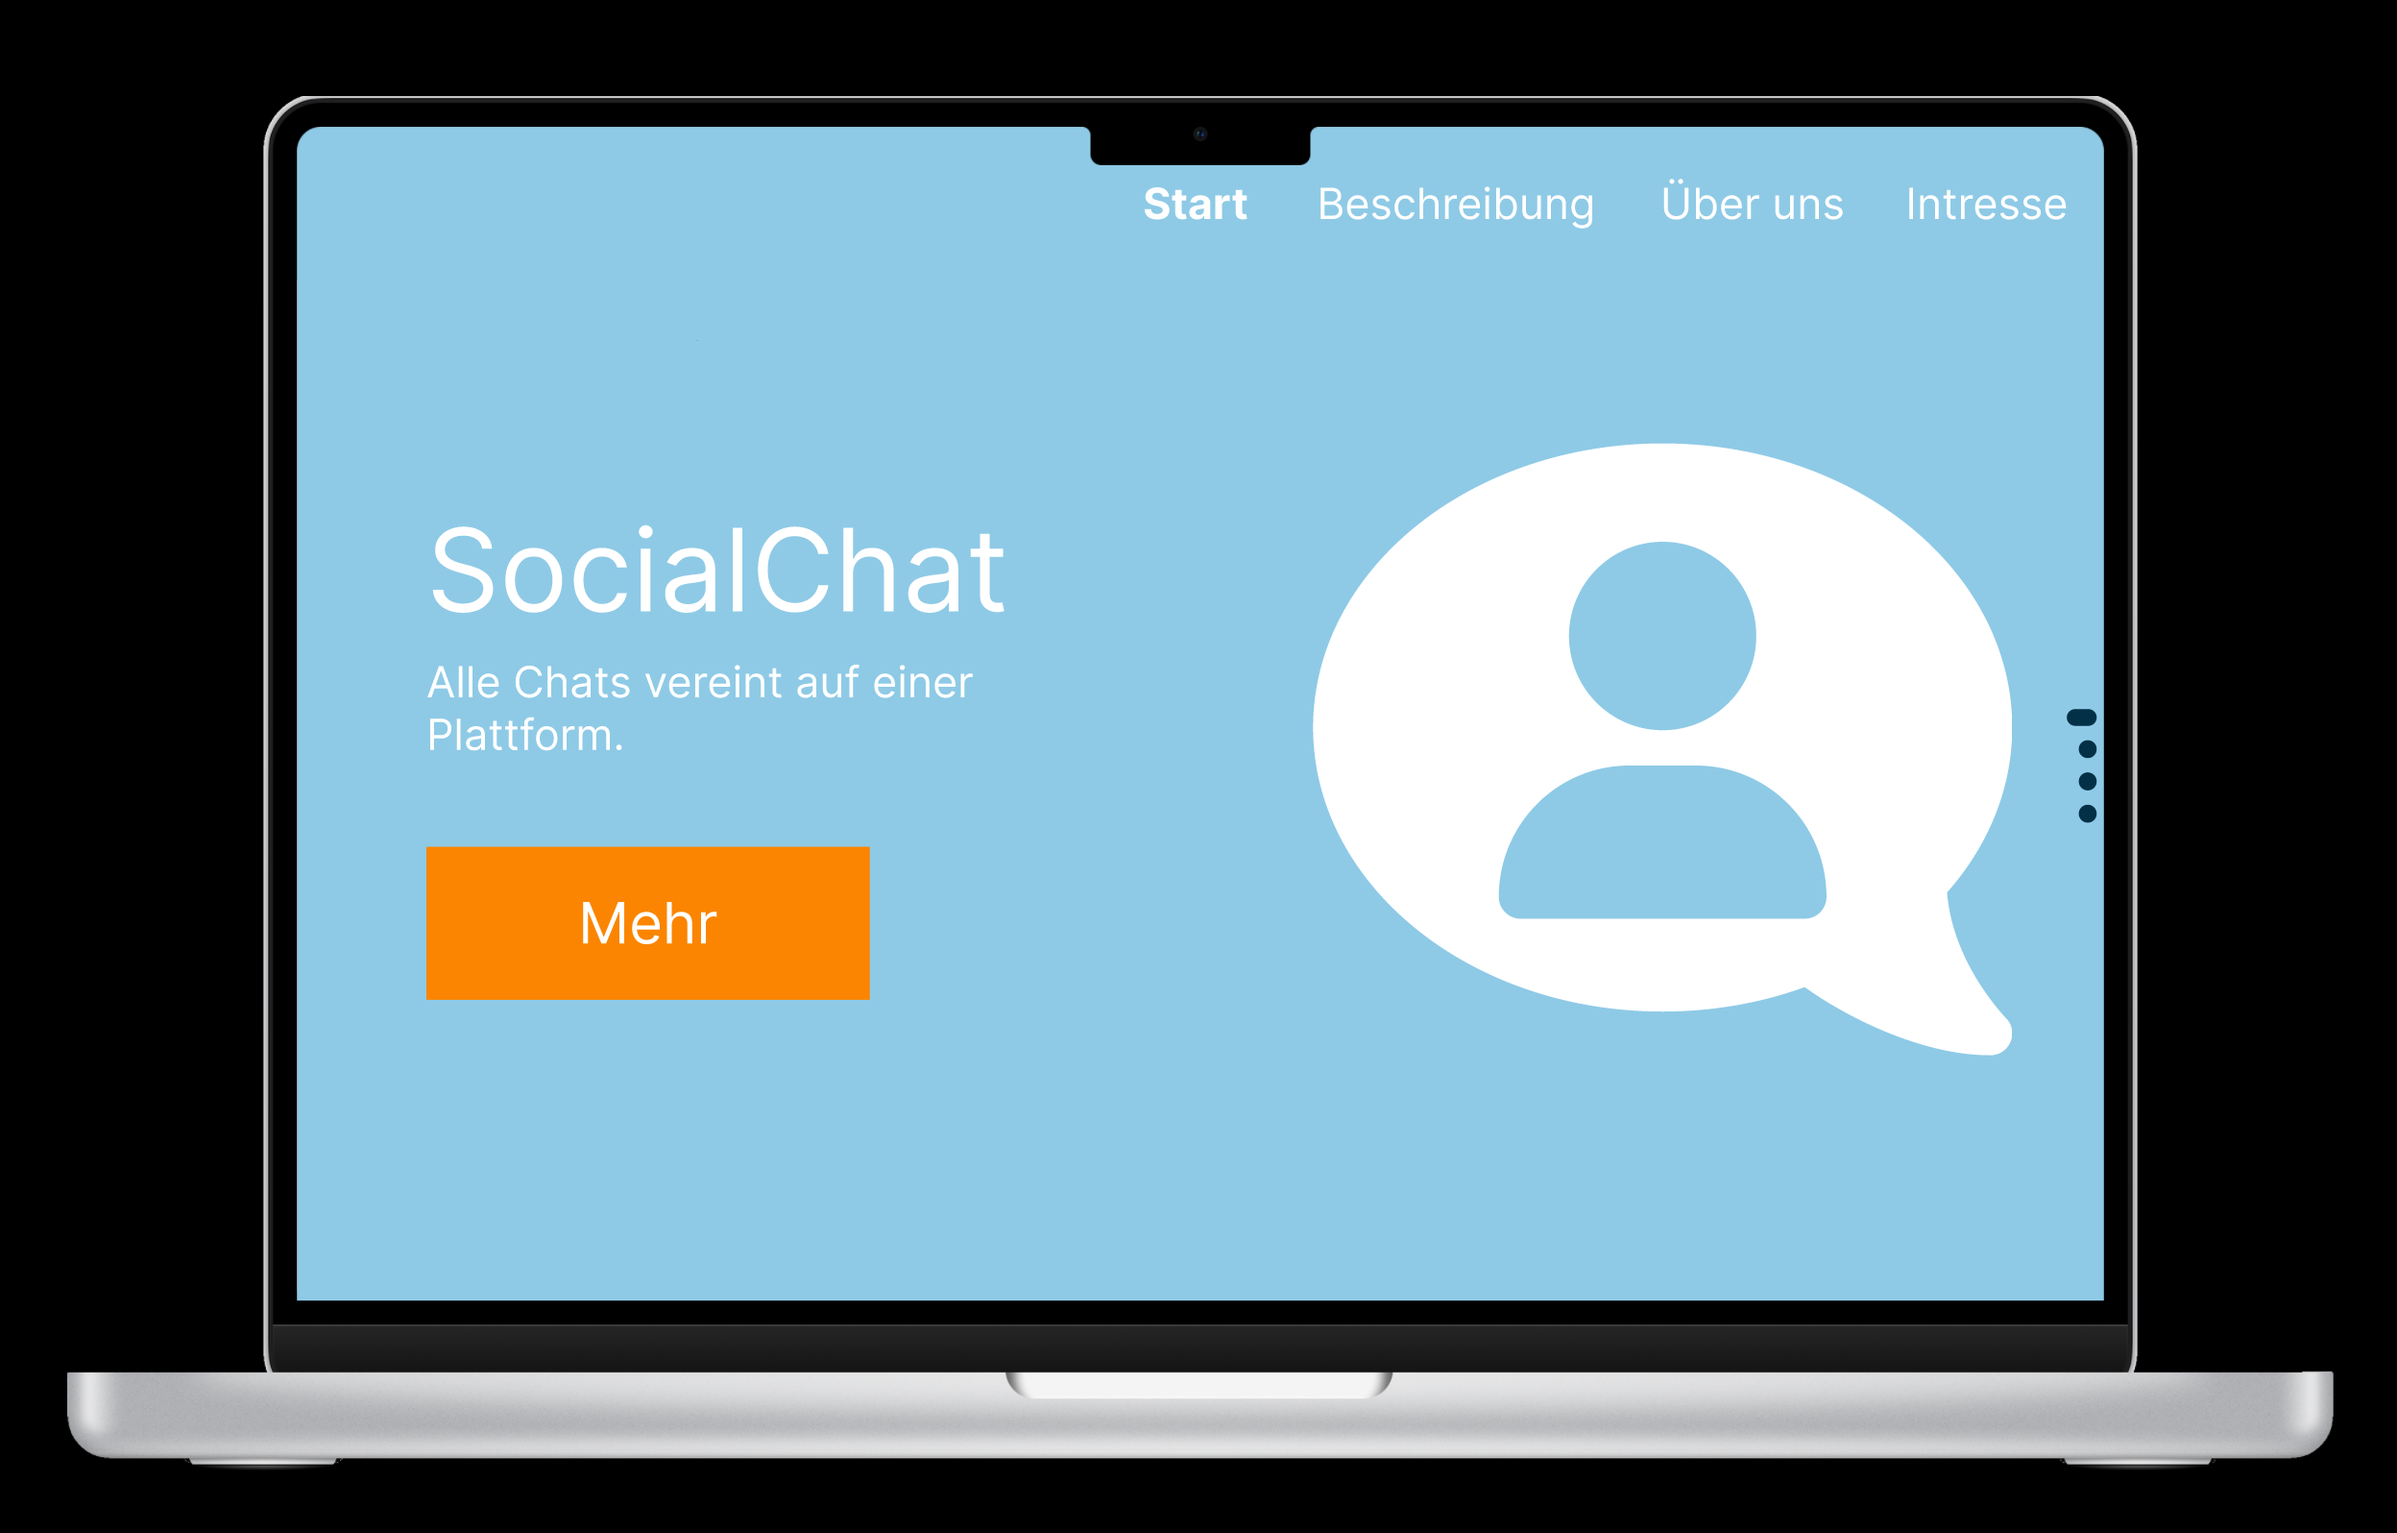
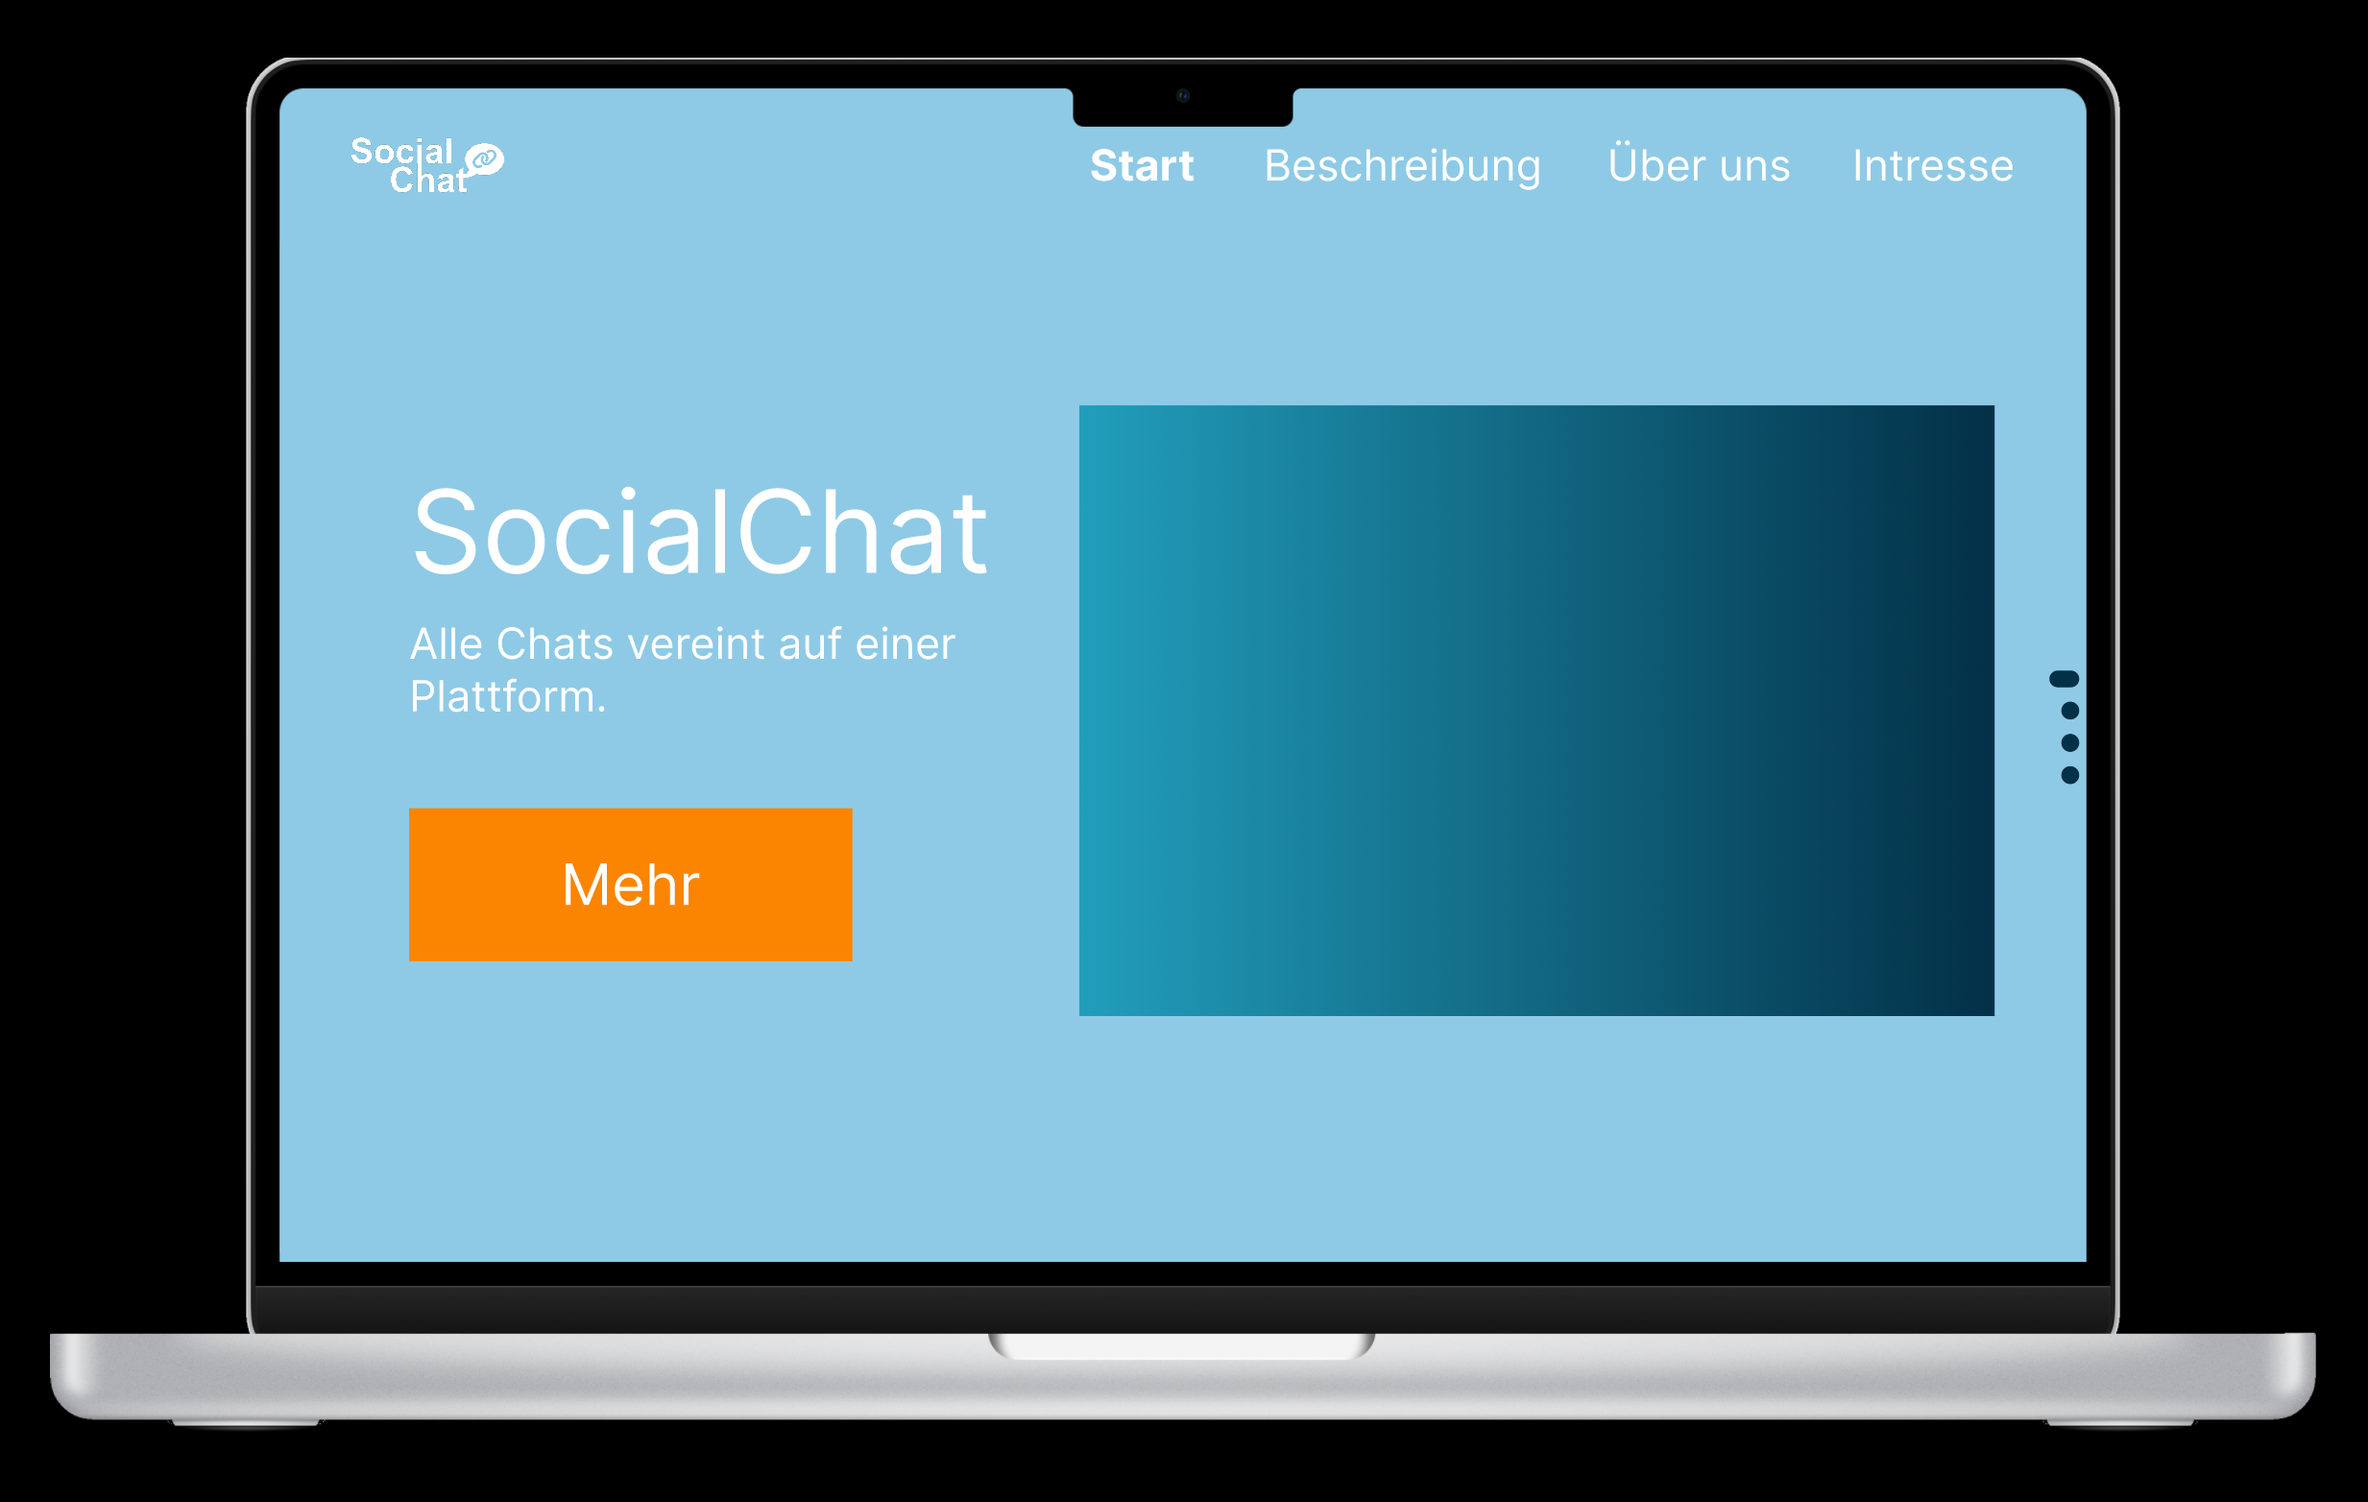
Update Storybook.md

Changed region(s): [[0.0, 0.0307, 0.9992, 0.9821], [0.1561, 0.5217, 0.3747, 0.6752]]

diff --git a/storybook/Storybook.md b/storybook/Storybook.md
@@ -2,6 +2,7 @@
 ## Inhaltsverzeichnis
 
 - [Inhaltsverzeichnis](#inhaltsverzeichnis)
+- [Vorwort](#vorwort)
 - [Beschreibung des ePortfolios](#beschreibung-des-eportfolios)
     - [Begründung der Themenwal](#begründung-der-themenwal)
 - [Visualisierung des ePortfolios](#visualisierung-des-eportfolios)
@@ -15,6 +16,10 @@
     - [Reflexion](#reflexion-1)
 - [Auswahl des Frameworks](#auswahl-des-frameworks)
     - [Begründung](#begründung)
+
+## Vorwort
+
+Alle Links sind sind öffentlich zugänglich und auf einer [Linkliste](http://socialchat-linklist.upcraft.li/) zusammengefasst. Dort kann man das Storybook als Markdown ansehen, die Prototypen direkt öffnen und noch weiteres.
 
 ## Beschreibung des ePortfolios
 
@@ -30,11 +35,7 @@ Ich habe mich für dieses Thema entschieden, da ich lange keine Idee hatte was i
 
 ## Visualisierung des ePortfolios
 
-[//]: # (![Prototyp MacBook Homescreen]&#40;./src/Prototyp-MacBook-Homescreen.png&#41;)
-
-[//]: # (: # &#40;![Prototyp iPhone Homescreen]&#40;./src/Prototyp_iPhone.png&#41;&#41;)
-
-<img src="./src/Prototyp-MacBook-Homescreen.png" width="76%"/><img src="./src/Prototyp_iPhone.png" width="24%" />
+<img src="./src/Prototyp-MacBook-Homescreen.png" width="75.65%"/><img src="./src/Prototyp_iPhone.png" width="24.35%" />
 
 Der Prototyp kann auf der [Linkliste](https://socialchat-linklist.upcraft.li/) oder über den [Direktlink](https://www.figma.com/file/enmASxtahbNuY0tpAu9Lky/M152_ePortfolio?node-id=0%3A1) aufgerufen werden.
 
@@ -59,15 +60,15 @@ Die Navigationsstruktur ist eine gewöhnliches Menü, dass aber auf einer One-Pa
   </tr>
   <tr>
     <td style="width: 50%;">
-      <img src="./src/SocialChat-Bild.jpeg" width="100%"/>
+      <img src="./src/SocialChat-Bild_original.png"/>
     </td>
     <td style="width: 50%;">
-      <img src="./src/SocialChat-Bild.png" width="100%"/>
+      <img src="./src/SocialChat-Bild_edited.png"/>
     </td>
   </tr>
 </table>
 
-![SocialChat-Bild-before-after](./src/before-after_slow.gif)
+![SocialChat-Bild-before-after](./src/before_after_slow.gif)
 
 ### Bearbeitungsdokumentation
 
@@ -94,14 +95,14 @@ Ich fand es schwierig ein Bild zu machen für mein ePortfolio-Thema, da man nich
       <img src="./src/sc-logo_v2.png" width="100%"/>
     </td>
     <td style="width: 33.3%;">
-      <img src="./src/sc-logo_v2.png" width="100%"/>
+      <img src="./src/sc-logo_v3.png" width="100%"/>
     </td>
   </tr>
 </table>
 
 ### Reflexion
 
-Als erstes Logo habe ich einfach eine Sprechblase mit einem Icon genommen, jedoch fand ich das etwas zu wenig und einfallslos. Danach habe ich mich auf [Logo.com](https://logo.com/) umgesehen  um mich inspirieren zu lassen, jedoch habe ich bemerkt dass das Logo was ich mit diesen Inspirationen selbst gemacht habe etwas zu detailliert war und man auf der Webseite kaum erkennen konnte. Deshalb habe ich das Logo nochmals ein drittes mal neu gemacht.
+Als erstes Logo habe ich einfach eine Sprechblase mit einem Icon genommen, jedoch fand ich das etwas zu wenig und einfallslos. Danach habe ich mich auf [Logo.com](https://logo.com/) umgesehen  um mich inspirieren zu lassen, jedoch habe ich bemerkt dass das Logo was ich mit diesen Inspirationen selbst gemacht habe etwas zu detailliert war und man auf der Webseite kaum erkennen konnte. Deshalb habe ich das Logo nochmals ein drittes mal neu gemacht. Bei dritten habe ich den Namen auseinander genommen und übereinander gelegt, da habe ich bemerkt, dass ich das ich das 'i' und das 'h' miteinander verbinden kann, und dass die Sprechblase aus dem 't' kommen kann.
 
 ## Auswahl des Frameworks
 
